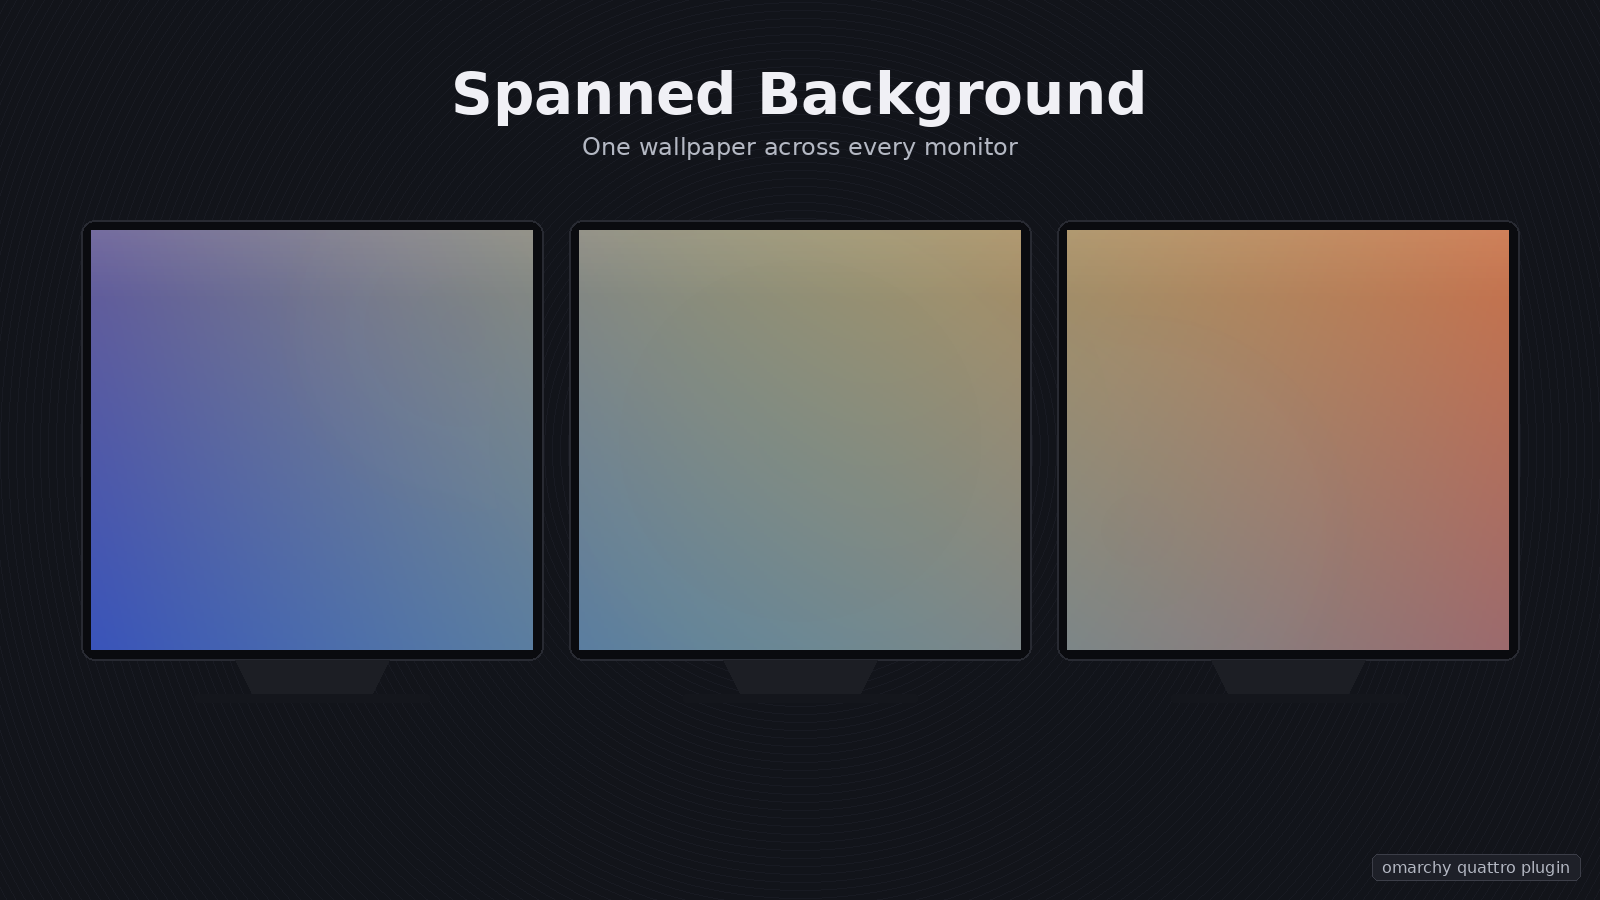
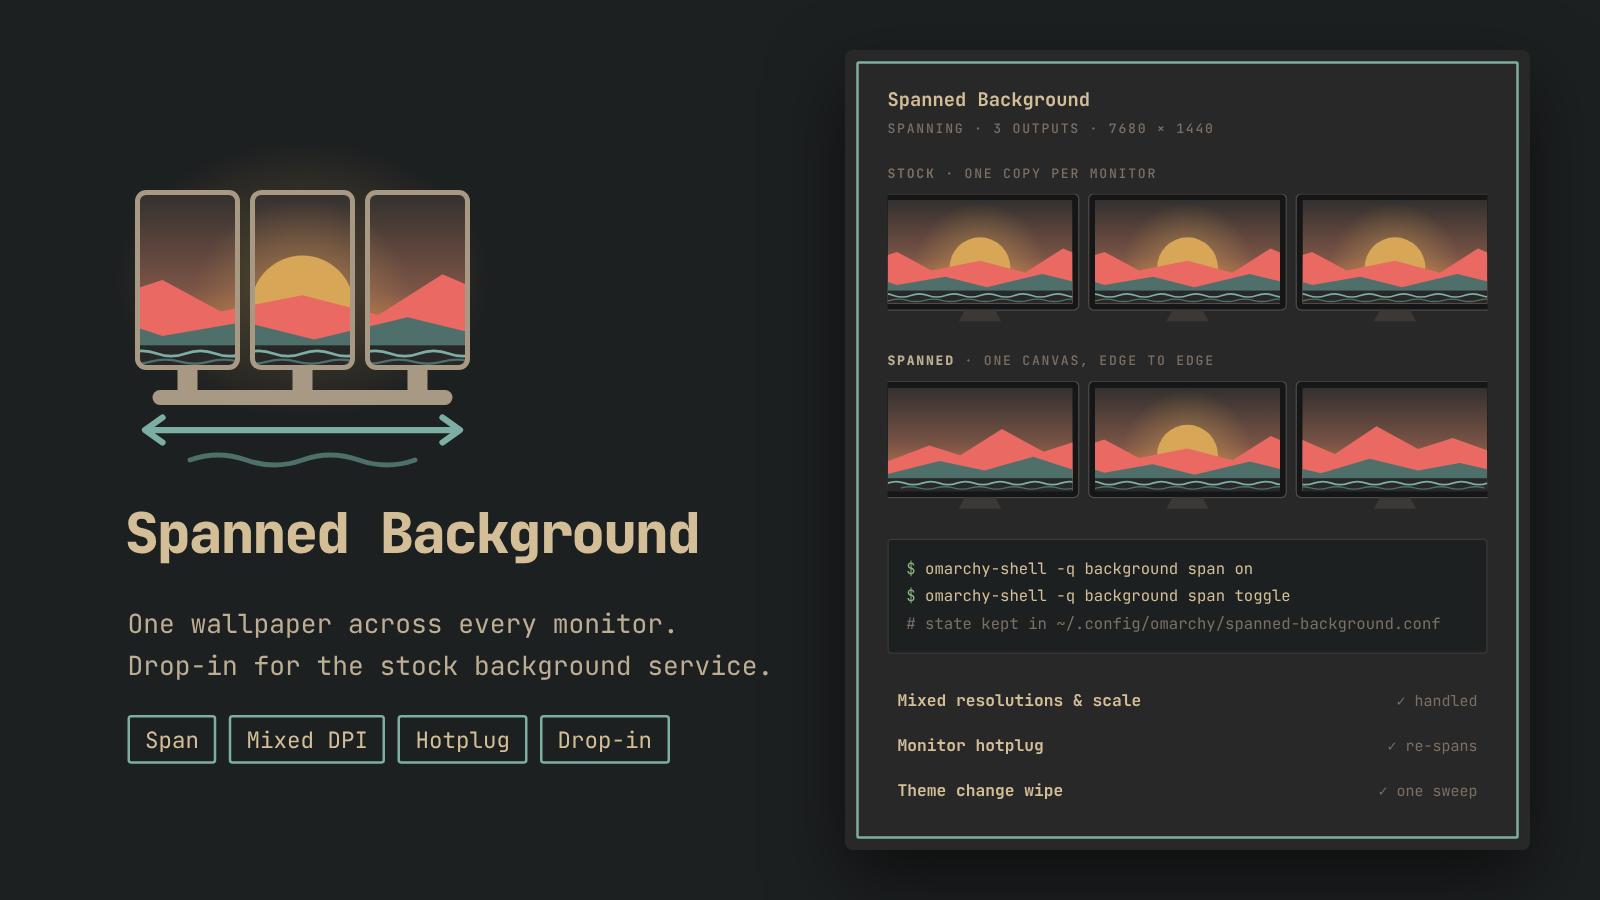
Refresh preview in the new style, bump to 1.0.1
- preview.png: new triptych logo and a card comparing stock (one copy
  per monitor) with spanned (one canvas), in the gruvbox-material style
  used by other Omarchy plugin previews.
- write-conf: drop the by-path chmod of the temporary. mktemp already
  creates it O_EXCL at mode 0600, and chmod-by-path is something the
  marketplace review guidance flags.
- README: readability pass; fix the aspect-ratio arithmetic (a 16:9
  image on 32:9 loses half its height, not two thirds); make the
  "every file read goes through a helper" claim exact about the image
  itself; state the span cap in characters, not bytes, to match code.
- manifest: version 1.0.1.

Claude-Session: https://claude.ai/code/session_01SqTgVR39o9AtEMmDq5MQij

diff --git a/README.md b/README.md
@@ -1,15 +1,17 @@
 # Spanned Background
 
-![One wallpaper drawn across three monitors, edge to edge.](preview.png)
+![Spanned Background: the stock service shows one copy of the wallpaper per monitor; this plugin draws one wallpaper across all of them.](preview.png)
 
 An [Omarchy](https://omarchy.org) **Quattro** shell plugin that treats all of
 your monitors as one continuous canvas and paints a single wallpaper across
-them — the equivalent of the Windows "Span" wallpaper fit. Edge to edge, no
-bezel compensation: the pixel at the right edge of your left monitor is the
-pixel immediately left of the one at the left edge of your right monitor.
+them, like the Windows "Span" wallpaper setting.
 
-It is a drop-in replacement for the built-in `omarchy.background` service, so
-everything else keeps working: `omarchy-theme-bg-set`, the `Super + Ctrl + Space`
+The image runs edge to edge with no bezel compensation: the last pixel on the
+right of one monitor is followed directly by the first pixel on the left of the
+next.
+
+It replaces the built-in `omarchy.background` service, and everything else
+keeps working as before: `omarchy-theme-bg-set`, the `Super + Ctrl + Space`
 background picker, theme switching with its diagonal wipe, and double-clicking
 the desktop.
 
@@ -17,8 +19,8 @@ the desktop.
 
 - Omarchy 4.x ("Quattro"). This plugin targets the Quickshell-based
   `omarchy-shell` and does **not** work on Omarchy 3 or earlier.
-- Two or more monitors, obviously. With a single monitor it behaves exactly like
-  the stock background service.
+- Two or more monitors to see any difference. With a single monitor it behaves
+  exactly like the stock background service.
 - No external packages. It uses only what Omarchy already ships.
 
 ## Install
@@ -28,7 +30,7 @@ omarchy plugin disable omarchy.background
 omarchy plugin add https://github.com/keasbeexd/omarchy-spanned-background --enable
 ```
 
-Or manually, without git:
+Or manually, from a downloaded copy of this repository:
 
 ```bash
 mkdir -p ~/.config/omarchy/plugins
@@ -38,21 +40,18 @@ omarchy plugin disable omarchy.background
 omarchy plugin enable keasbeexd.spanned-background
 ```
 
-Disable the built-in *first* in both cases: while the two are enabled together
-they fight over the same IPC target.
+> [!IMPORTANT]
+> **Disable `omarchy.background` first, in both cases.** Both plugins draw on
+> the Wayland background layer and both claim the `background` IPC target, so
+> running them together gives you two stacked wallpapers and an IPC conflict.
 
-If the wallpaper does not change immediately, ask the shell to rescan:
+If the wallpaper does not change straight away, ask the shell to rescan:
 
 ```bash
 omarchy-shell -q shell rescanPlugins
 ```
 
-…and if that does not pick it up, restart the shell or log out and back in.
-
-> [!IMPORTANT]
-> **Disabling `omarchy.background` is required, not optional.** Both plugins draw
-> on the Wayland background layer and both claim the `background` IPC target, so
-> running them together gives you two stacked wallpapers and an IPC conflict.
+If that does not pick it up, restart the shell or log out and back in.
 
 ## Using it
 
@@ -64,11 +63,11 @@ omarchy-shell -q background span on
 omarchy-shell -q background span toggle
 ```
 
-The choice is written to `~/.config/omarchy/spanned-background.conf` and read
-back when the shell starts. You can also change the `spanEnabled` default at the
-top of `SpannedBackground.qml`.
+The choice is saved to `~/.config/omarchy/spanned-background.conf` and read
+back when the shell starts. Without that file the plugin uses the
+`spanEnabled` default at the top of `SpannedBackground.qml`.
 
-Everything else is unchanged:
+The desktop shortcuts are the same as stock:
 
 | Action | Result |
 | --- | --- |
@@ -85,7 +84,7 @@ omarchy plugin remove keasbeexd.spanned-background     # if installed via git
 ```
 
 `omarchy plugin remove` deletes the plugin directory and all bundled scripts.
-It does **not** touch:
+It does **not** delete:
 
 - `~/.config/omarchy/spanned-background.conf` — the one-line file holding
   `span=on` or `span=off`. Delete it manually if you want no trace.
@@ -99,24 +98,27 @@ no keyring items, no packages installed, no shared configuration edited.
 
 ## How it works
 
-The stock background service creates one background-layer window per screen and
-fills each with `PreserveAspectCrop` — which is why every monitor gets its own
-full copy of the image.
+The stock background service creates one background-layer window per screen
+and fills each with `PreserveAspectCrop`, which is why every monitor gets its
+own full copy of the image.
 
-This plugin keeps the one-window-per-screen structure (that is how Wayland layer
-shells work) but changes what each window draws. On startup, and whenever a
-monitor is added, removed, moved, rotated or rescaled, it reads `x`, `y`, `width`
-and `height` from every `ShellScreen`, computes the bounding box of the whole
-virtual desktop, and sizes each window's image to *that* box, offset by the
-negative of its own screen origin. Each output therefore renders only its slice
-of one shared image, clipped to its own bounds. Every panel asks for the same
-image at the same size, so Qt's pixmap cache holds a single decode between them
-— the same memory profile as the stock plugin.
+This plugin keeps one window per screen (that is how Wayland layer shells work)
+but changes what each window draws:
 
-Because Hyprland lays every output out in a single logical coordinate space,
-this is automatically correct for mixed resolutions, mixed (including
-fractional) scale factors, portrait monitors and stacked arrangements — nothing
-is hardcoded about any particular setup.
+1. On startup, and whenever a monitor is added, removed, moved, rotated or
+   rescaled, it reads `x`, `y`, `width` and `height` from every `ShellScreen`.
+2. It computes the bounding box of the whole virtual desktop.
+3. It sizes each window's image to *that* box, shifted by the window's own
+   screen origin, and clips it to the screen.
+
+Each output therefore draws only its own slice of one shared image. Every
+window asks for the same image at the same size, so Qt's pixmap cache keeps a
+single decode for all of them: the same memory use as the stock plugin.
+
+Hyprland places every output in one logical coordinate space, so this works
+for mixed resolutions, mixed (including fractional) scale factors, portrait
+monitors and stacked arrangements without anything hardcoded for a particular
+setup.
 
 The theme-change wipe is computed in that same virtual space and then shifted
 into each output's local coordinates, so one diagonal sweeps continuously across
@@ -127,15 +129,16 @@ falls back to stock per-monitor rendering rather than drawing something wrong.
 
 ## Notes and caveats
 
-- **Aspect ratio.** The image is scaled to cover the full virtual desktop and
-  the overflow is cropped. Two 16:9 monitors side by side make a 32:9 canvas, so
-  an ordinary 16:9 wallpaper loses roughly its top and bottom thirds.
-  Ultrawide-sourced wallpapers look dramatically better. Nothing is ever
-  stretched — aspect ratio is always preserved.
+- **Aspect ratio.** The image is scaled to cover the whole virtual desktop and
+  whatever overflows is cropped. Two 16:9 monitors side by side make a 32:9
+  canvas, so an ordinary 16:9 wallpaper loses half its height (a quarter off
+  the top and a quarter off the bottom); three make 48:9 and it loses two
+  thirds. Ultrawide or panoramic wallpapers look much better. Nothing is ever
+  stretched: the aspect ratio is always preserved.
 - **Non-rectangular layouts.** If your monitors are not aligned (say one sits
-  200px lower than the other), the bounding box includes the empty L-shaped
-  region. That area is simply not visible on any screen; the parts you can see
-  still line up correctly.
+  200px lower than the other), the bounding box includes an empty L-shaped
+  region. That part of the image is not shown on any screen; the parts you can
+  see still line up correctly.
 - **Fractional scaling.** Alignment is computed in logical pixels, so on
   fractional scale factors the seam can land on a fractional device pixel. Any
   resulting misalignment is sub-pixel and not visible in practice.
@@ -145,10 +148,10 @@ falls back to stock per-monitor rendering rather than drawing something wrong.
 ## What it does on your system
 
 Omarchy plugins run unsandboxed inside the shell process, so here is the full
-list of what this one touches. Every file read and every command invocation
-routes through a bundled bash helper in `bin/`; the QML never issues a shell
-string, and every helper is invoked by absolute path with its arguments as
-separate argv elements.
+list of what this one touches. Apart from the wallpaper image itself (loaded by
+Qt, see below), every file read and every command goes through a bundled bash
+helper in `bin/`. The QML never builds a shell string, and every helper is
+started by absolute path with its arguments as separate argv elements.
 
 - **Reads**, via `bin/resolve-bg`, the symlink Omarchy maintains at
   `~/.local/state/omarchy/current/background`. The helper caps `readlink`
@@ -160,13 +163,13 @@ separate argv elements.
   using `dd iflag=nofollow,nonblock,count_bytes` at most 129 bytes at a time,
   so a symlink or FIFO planted at that name is refused rather than followed
   or blocked on.
-- **Writes**, via `bin/write-conf`, the same file. The write creates an
-  unpredictable temporary via `mktemp` in the destination directory, chmods it
-  600, writes and fsyncs the payload, `mv -f -T`s it over the destination and
-  fsyncs the directory — so a planted symlink at the destination is
-  *replaced* by `rename(2)` rather than truncating whatever it pointed at.
-  The value on argv is validated against the closed set `{on, off}` before
-  the helper touches the filesystem.
+- **Writes**, via `bin/write-conf`, the same file. The helper creates an
+  unpredictable temporary with `mktemp` in the destination directory (mode 600
+  from creation), writes and fsyncs the payload, `mv -f -T`s it over the
+  destination and fsyncs the directory. A symlink planted at the destination
+  is therefore *replaced* by `rename(2)` rather than written through. The
+  value on argv is checked against the closed set `{on, off}` before the
+  helper touches the filesystem.
 - **Runs**, only when you double-click the desktop, the same two commands the
   stock plugin runs: `omarchy-theme-bg-switcher` / `omarchy-theme-bg-set` and
   `omarchy-theme-switcher` / `omarchy-theme-set`. Each picker runs under
@@ -178,18 +181,20 @@ separate argv elements.
   element of the setter.
 - The three file helpers (`resolve-bg`, `read-conf`, `write-conf`) run with a
   cleared environment holding only `HOME` and `PATH=/usr/bin`.
-- Reads the wallpaper image itself. Every path that reaches `Image.source`
-  is either produced by a helper above or arrives via IPC and is put through
-  the same absolute-path + control-char + length check.
+- **Reads** the wallpaper image itself, through Qt's image loader. Every
+  path that reaches `Image.source`, whether it comes from `bin/resolve-bg` or
+  arrives over IPC, must be an absolute path or `file://` URL, free of control
+  characters and at most 4096 characters long.
 - **No network access, no elevated privileges, no external packages**, and
   nothing outside `~/.config/omarchy/spanned-background.conf` is ever written.
 
-The `background` IPC surface exposes `refresh`, `set`, `setInstant`,
-`transition`, `themeTransition` and `span`. Every string argument is capped,
-control-character-rejected, and required to be an absolute path or `file://`
-URL (`span` is further restricted to `on|off|toggle|true|false|1|0|""` and
-capped at 32 bytes). `themeTransition`'s two base64 payloads are each capped
-at 128 KiB decoded before they reach the theme loader.
+The `background` IPC target exposes `refresh`, `set`, `setInstant`,
+`transition` and `themeTransition` (the same methods as the stock service, so
+Omarchy's own tools keep working), plus `span`. Every path argument goes
+through the check above. `span` accepts only
+`on|off|toggle|true|false|1|0` or an empty string (toggle) and at most 32
+characters. `themeTransition`'s two base64 payloads are each capped at
+128 KiB decoded before they reach the theme loader.
 
 ## Issues
 
